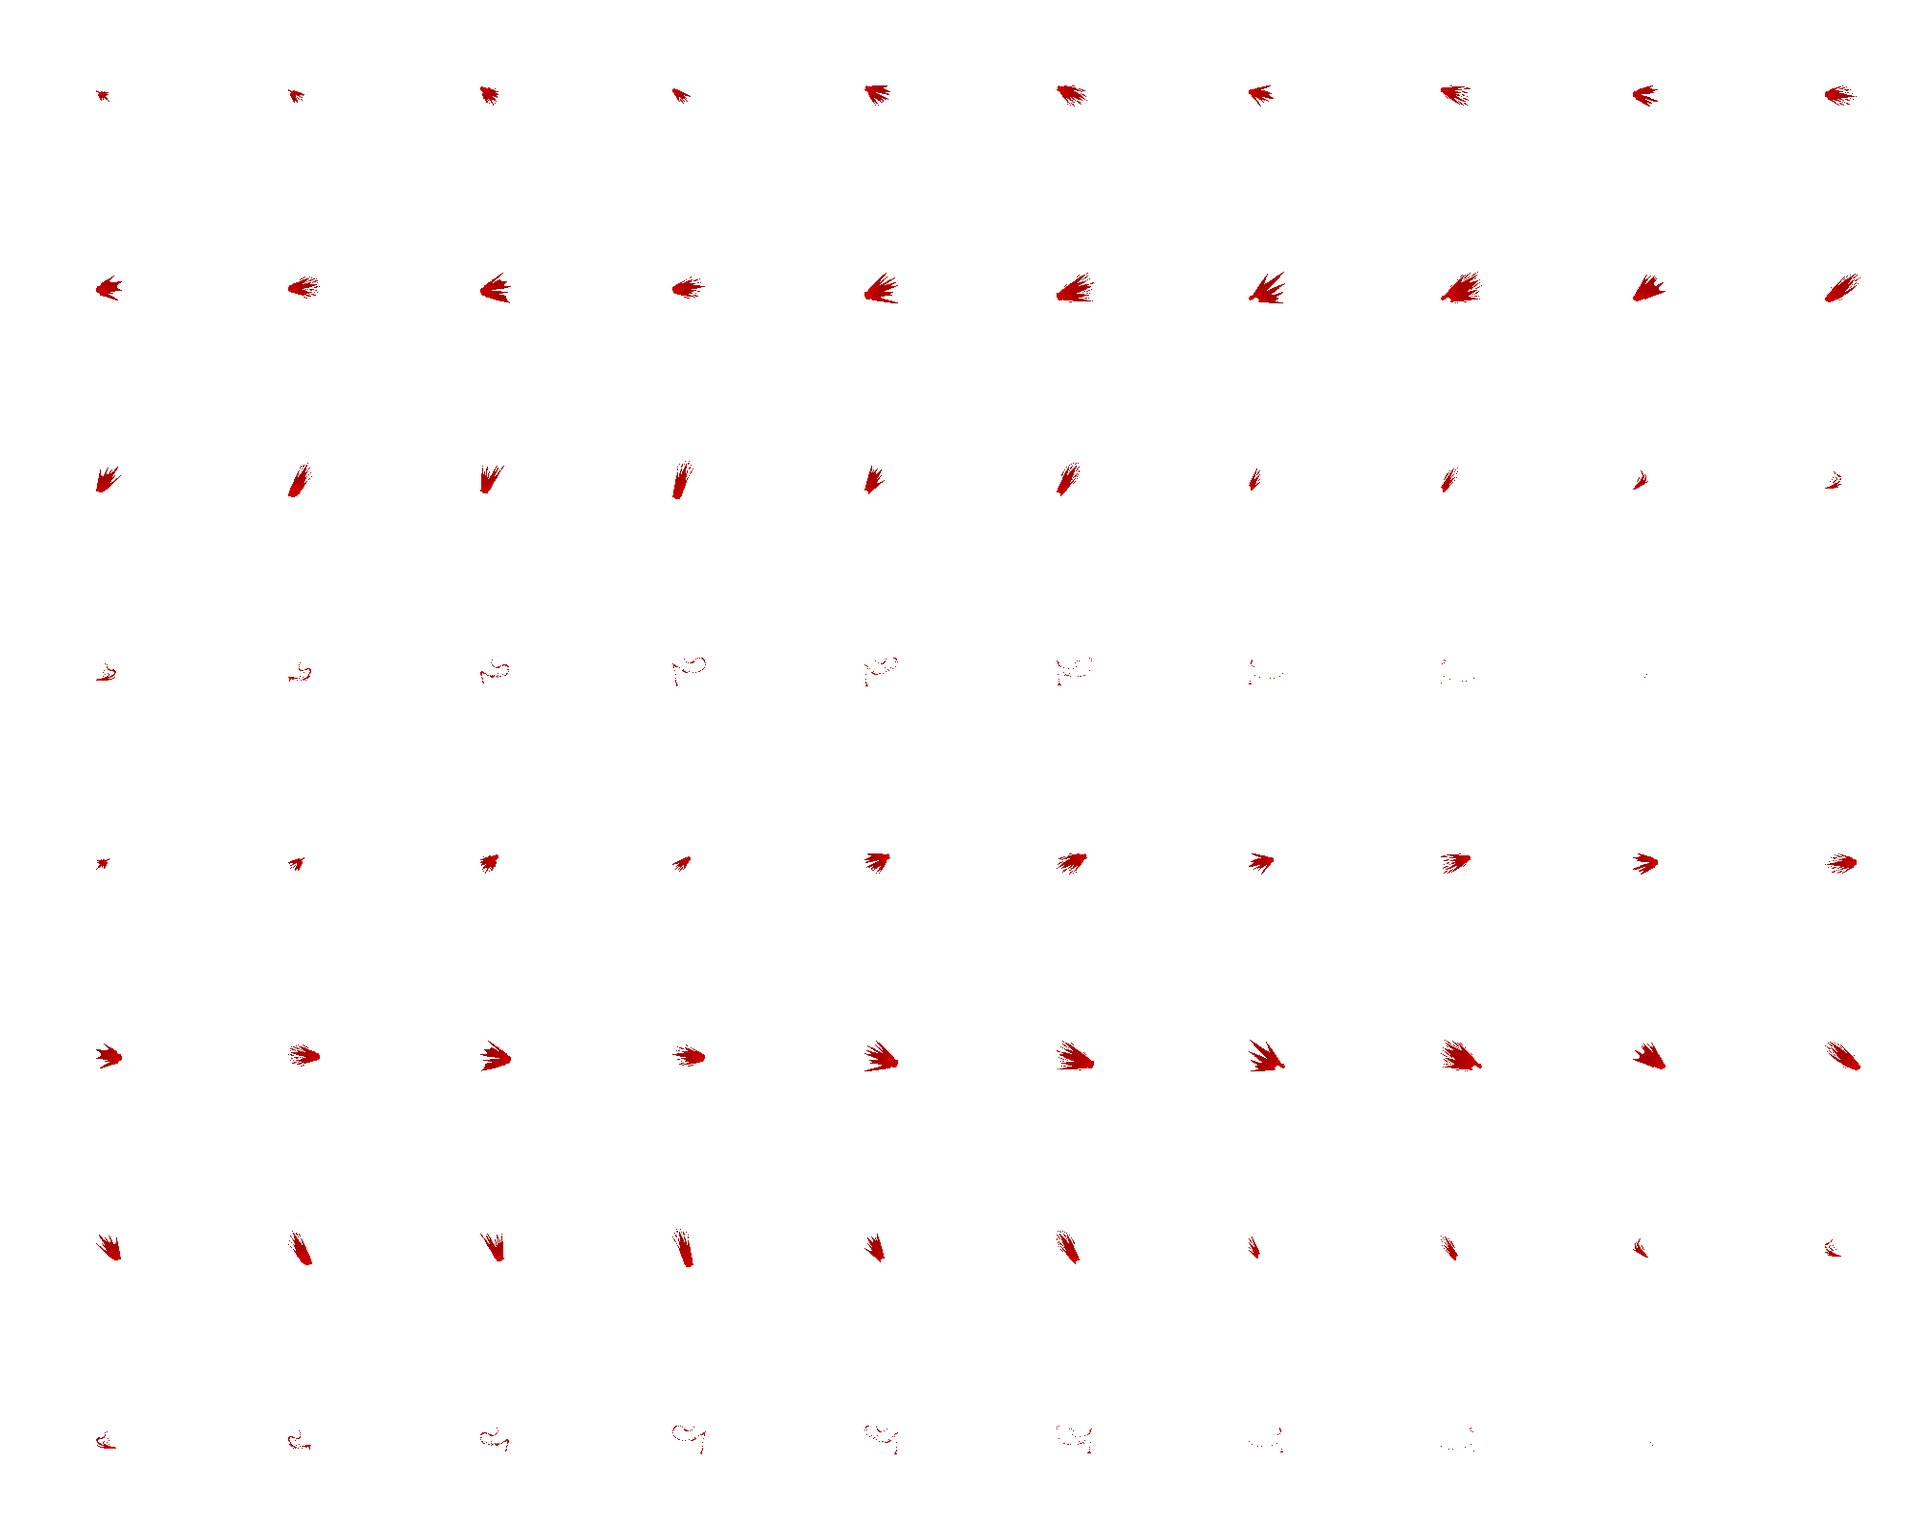
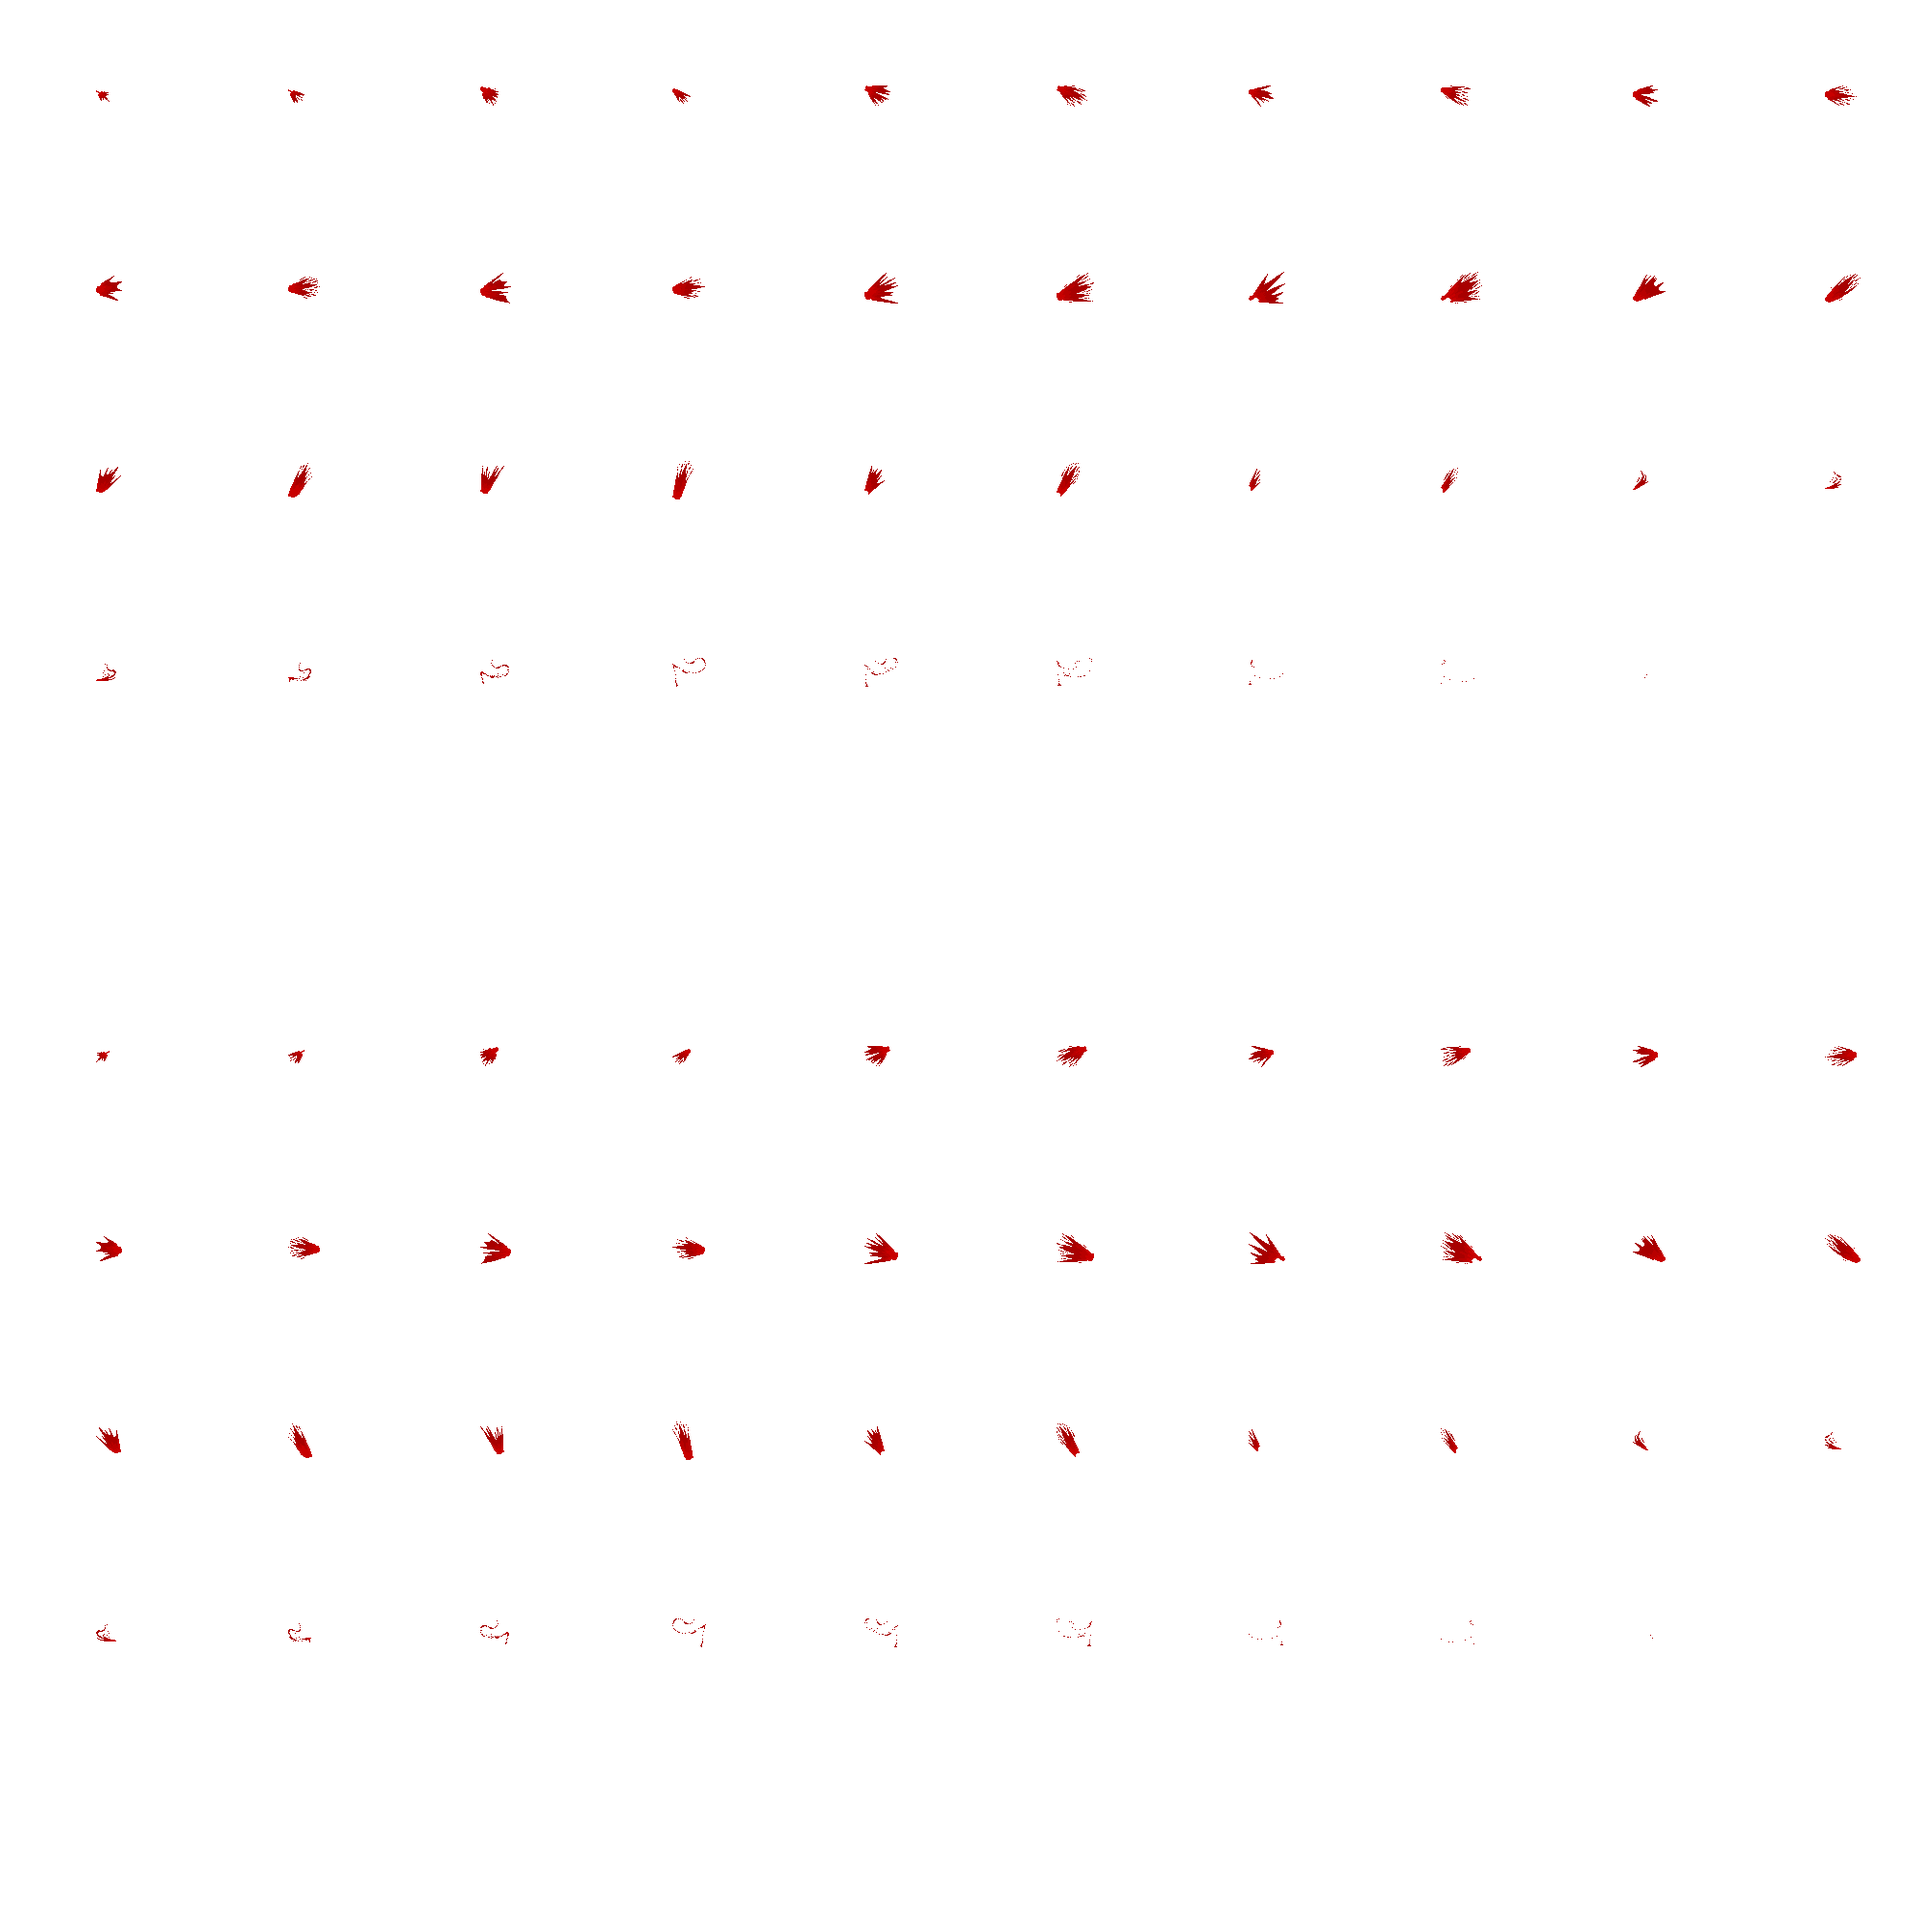
sasad

diff --git a/MetalSlug3/MetalSlug3/ZombieVomitProjectile.cpp b/MetalSlug3/MetalSlug3/ZombieVomitProjectile.cpp
@@ -53,7 +53,27 @@ void AZombieVomitProjectile::BeginPlay()
 	Renderer->CreateAnimation("16-1_Right", "Marco_ZombieVomitProjectile.png", 33, 33, 0.05f);
 	Renderer->CreateAnimation("17-0_Right", "Marco_ZombieVomitProjectile.png", 34, 34, 0.05f);
 	Renderer->CreateAnimation("17-1_Right", "Marco_ZombieVomitProjectile.png", 35, 35, 0.05f);
-	Renderer->CreateAnimation("End_Right", "Marco_ZombieVomitProjectile.png", 36, 51, 0.05f);
+
+	Renderer->CreateAnimation("End_Right0", "Marco_ZombieVomitProjectile.png", 36, 36, 0.03f);
+	Renderer->CreateAnimation("End_Right1", "Marco_ZombieVomitProjectile.png", 37, 37, 0.03f);
+	Renderer->CreateAnimation("End_Right2", "Marco_ZombieVomitProjectile.png", 38, 38, 0.03f);
+	Renderer->CreateAnimation("End_Right3", "Marco_ZombieVomitProjectile.png", 39, 39, 0.03f);
+	Renderer->CreateAnimation("End_Right4", "Marco_ZombieVomitProjectile.png", 40, 40, 0.03f);
+	Renderer->CreateAnimation("End_Right5", "Marco_ZombieVomitProjectile.png", 41, 41, 0.03f);
+	Renderer->CreateAnimation("End_Right6", "Marco_ZombieVomitProjectile.png", 42, 42, 0.03f);
+	Renderer->CreateAnimation("End_Right7", "Marco_ZombieVomitProjectile.png", 43, 43, 0.03f);
+	Renderer->CreateAnimation("End_Right8", "Marco_ZombieVomitProjectile.png", 44, 44, 0.03f);
+	Renderer->CreateAnimation("End_Right9", "Marco_ZombieVomitProjectile.png", 45, 45, 0.03f);
+	Renderer->CreateAnimation("End_Right10", "Marco_ZombieVomitProjectile.png", 46, 46, 0.03f);
+	Renderer->CreateAnimation("End_Right11", "Marco_ZombieVomitProjectile.png", 47, 47, 0.03f);
+	Renderer->CreateAnimation("End_Right12", "Marco_ZombieVomitProjectile.png", 48, 48, 0.03f);
+	Renderer->CreateAnimation("End_Right13", "Marco_ZombieVomitProjectile.png", 49, 49, 0.03f);
+	Renderer->CreateAnimation("End_Right14", "Marco_ZombieVomitProjectile.png", 50, 50, 0.03f);
+	Renderer->CreateAnimation("End_Right15", "Marco_ZombieVomitProjectile.png", 51, 51, 0.03f);
+	Renderer->CreateAnimation("End_Right16", "Marco_ZombieVomitProjectile.png", 52, 52, 0.03f);
+	Renderer->CreateAnimation("End_Right17", "Marco_ZombieVomitProjectile.png", 53, 53, 0.03f);
+	Renderer->CreateAnimation("End_Right18", "Marco_ZombieVomitProjectile.png", 54, 54, 0.03f);
+	Renderer->CreateAnimation("End_Right19", "Marco_ZombieVomitProjectile.png", 55, 55, 0.03f);
 
 	Renderer->CreateAnimation("0-0_Left", "Marco_ZombieVomitProjectile.png", 60, 60, 0.05f);
 	Renderer->CreateAnimation("0-1_Left", "Marco_ZombieVomitProjectile.png", 61, 61, 0.05f);
@@ -91,8 +111,27 @@ void AZombieVomitProjectile::BeginPlay()
 	Renderer->CreateAnimation("16-1_Left", "Marco_ZombieVomitProjectile.png", 93, 93, 0.05f);
 	Renderer->CreateAnimation("17-0_Left", "Marco_ZombieVomitProjectile.png", 94, 94, 0.05f);
 	Renderer->CreateAnimation("17-1_Left", "Marco_ZombieVomitProjectile.png", 95, 95, 0.05f);
-	Renderer->CreateAnimation("End_Left", "Marco_ZombieVomitProjectile.png", 96, 111, 0.05f);
 
+	Renderer->CreateAnimation("End_Left0", "Marco_ZombieVomitProjectile.png", 96, 96, 0.03f);
+	Renderer->CreateAnimation("End_Left1", "Marco_ZombieVomitProjectile.png", 97, 97, 0.03f);
+	Renderer->CreateAnimation("End_Left2", "Marco_ZombieVomitProjectile.png", 98, 98, 0.03f);
+	Renderer->CreateAnimation("End_Left3", "Marco_ZombieVomitProjectile.png", 99, 99, 0.03f);
+	Renderer->CreateAnimation("End_Left4", "Marco_ZombieVomitProjectile.png", 100, 100, 0.03f);
+	Renderer->CreateAnimation("End_Left5", "Marco_ZombieVomitProjectile.png", 101, 101, 0.03f);
+	Renderer->CreateAnimation("End_Left6", "Marco_ZombieVomitProjectile.png", 102, 102, 0.03f);
+	Renderer->CreateAnimation("End_Left7", "Marco_ZombieVomitProjectile.png", 103, 103, 0.03f);
+	Renderer->CreateAnimation("End_Left8", "Marco_ZombieVomitProjectile.png", 104, 104, 0.03f);
+	Renderer->CreateAnimation("End_Left9", "Marco_ZombieVomitProjectile.png", 105, 105, 0.03f);
+	Renderer->CreateAnimation("End_Left10", "Marco_ZombieVomitProjectile.png", 106, 106, 0.03f);
+	Renderer->CreateAnimation("End_Left11", "Marco_ZombieVomitProjectile.png", 107, 107, 0.03f);
+	Renderer->CreateAnimation("End_Left12", "Marco_ZombieVomitProjectile.png", 108, 108, 0.03f);
+	Renderer->CreateAnimation("End_Left13", "Marco_ZombieVomitProjectile.png", 109, 109, 0.03f);
+	Renderer->CreateAnimation("End_Left14", "Marco_ZombieVomitProjectile.png", 110, 110, 0.03f);
+	Renderer->CreateAnimation("End_Left15", "Marco_ZombieVomitProjectile.png", 111, 111, 0.03f);
+	Renderer->CreateAnimation("End_Left16", "Marco_ZombieVomitProjectile.png", 112, 112, 0.03f);
+	Renderer->CreateAnimation("End_Left17", "Marco_ZombieVomitProjectile.png", 113, 113, 0.03f);
+	Renderer->CreateAnimation("End_Left18", "Marco_ZombieVomitProjectile.png", 114, 114, 0.03f);
+	Renderer->CreateAnimation("End_Left19", "Marco_ZombieVomitProjectile.png", 115, 115, 0.03f);
 
 
 	Renderer->SetImage("Marco_ZombieVomitProjectile.png");
@@ -104,17 +143,28 @@ void AZombieVomitProjectile::Tick(float _DeltaTime)
 {
 	AActor::Tick(_DeltaTime);
 
+	if (IsDeath)
+	{
+		Destroy();
+		return;
+	}
+
 	if (RendererEnd)
 	{
 		if (Dir.X > 0)
 		{
-			Renderer->ChangeAnimation("End_Right");
+			std::string AnimName = "End_Right";
+			AnimName += std::to_string(EndFrame);
+			Renderer->ChangeAnimation(AnimName, false, 0, 0.03f);
+			
 		}
 		else
 		{
-			Renderer->ChangeAnimation("End_Left");
+			std::string AnimName = "End_Left";
+			AnimName += std::to_string(EndFrame);
+			Renderer->ChangeAnimation(AnimName, false, 0, 0.03f);
 		}
-		RendererEnd = false;
+		return;
 	}
 
 	if (Dir.Y < -0.97f)

diff --git a/MetalSlug3/MetalSlug3/VomitLauncher.cpp b/MetalSlug3/MetalSlug3/VomitLauncher.cpp
@@ -11,6 +11,10 @@ AVomitLauncher::AVomitLauncher()
 
 AVomitLauncher::~AVomitLauncher()
 {
+	for (AZombieVomitProjectile* Projectile : VomitProjectiles)
+	{
+		Projectile->IsDeath = true;
+	}
 }
 
 void AVomitLauncher::BeginPlay()
@@ -20,7 +24,7 @@ void AVomitLauncher::BeginPlay()
 
 	if (UContentsHelper::Player->DirState == EActorDir::Right)
 	{
-		Renderer->CreateAnimation("Launch_Right", "Marco_VomitLaunchEffect.png", 0, 38, 0.08f, false);
+		Renderer->CreateAnimation("Launch_Right", "Marco_VomitLaunchEffect.png", 0, 43, 0.03f, false);
 		InitialShootVector = { 12.f,10.f };
 		LastShootVector = { 12.f,-37.f };
 		Renderer->ChangeAnimation("Launch_Right");
@@ -28,7 +32,7 @@ void AVomitLauncher::BeginPlay()
 	}
 	else if (UContentsHelper::Player->DirState == EActorDir::Left)
 	{
-		Renderer->CreateAnimation("Launch_Left", "Marco_VomitLaunchEffect.png", 40, 78, 0.08f, false);
+		Renderer->CreateAnimation("Launch_Left", "Marco_VomitLaunchEffect.png", 50, 93, 0.03f, false);
 		InitialShootVector = { -12.f,10.f };
 		LastShootVector = { -12.f,-37.f };
 		Renderer->ChangeAnimation("Launch_Left");
@@ -37,12 +41,40 @@ void AVomitLauncher::BeginPlay()
 	InitialShootVector.Normalize2D();
 	LastShootVector.Normalize2D();
 	ShootVector = InitialShootVector;
-
 }
 
 void AVomitLauncher::Tick(float _DeltaTime)
 {
-	ShootVector.RotationZToDeg(-10.f * _DeltaTime);
+	int CurFrame = Renderer->GetCurAnimationFrame();
+	EActorDir PlayerDir = UContentsHelper::Player->DirState;
+	if (CurFrame < 24)
+	{
+		if (PlayerDir == EActorDir::Right)
+		{
+			ShootVector.RotationZToDeg(-120.f * _DeltaTime);
+		}
+		else
+		{
+			ShootVector.RotationZToDeg(120.f * _DeltaTime);
+		}
+	}
+	else
+	{
+		IsEnd = true;
+		if (PlayerDir == EActorDir::Right)
+		{
+			ShootVector.RotationZToDeg(25.f * _DeltaTime);
+		}
+		else
+		{
+			ShootVector.RotationZToDeg(-25.f * _DeltaTime);
+		}
+
+		if (Renderer->IsCurAnimationEnd())
+		{
+			Destroy();
+		}
+	}
 
 	AccTime += _DeltaTime;
 	if (AccTime > CoolTime)
@@ -51,6 +83,7 @@ void AVomitLauncher::Tick(float _DeltaTime)
 		for (AZombieVomitProjectile* Projectile : VomitProjectiles)
 		{
 			Projectile->Destroy();
+			Projectile = nullptr;
 		}
 		VomitProjectiles.clear();
 
@@ -67,10 +100,17 @@ void AVomitLauncher::LaunchLogic()
 	{
 		AZombieVomitProjectile* VomitProjectile = GetWorld()->SpawnActor<AZombieVomitProjectile>();
 		VomitProjectiles.push_back(VomitProjectile);
+		
+		int CurFrame = Renderer->GetCurAnimationFrame();
+		if (CurFrame > 23)
+		{
+			VomitProjectile->RendererEnd = true;
+			VomitProjectile->SetEndFrame(CurFrame - 24);
+		}
 
 		FVector ProjectilePosition = FVector::Zero;
-		ProjectilePosition.X = InitialVelocity.X * t;
-		ProjectilePosition.Y = InitialVelocity.Y * t + 0.5f * Gravity * pow(t, 2);
+		ProjectilePosition.X = InitialVelocity.X/2.f * (t+1);
+		ProjectilePosition.Y = InitialVelocity.Y/2.f * (t+1) + 0.5f * Gravity * pow((t+1), 2);
 
 		VomitProjectile->SetActorLocation(GetActorLocation() + ProjectilePosition);
 		VomitProjectile->SetNumber(t);
@@ -108,8 +148,3 @@ void AVomitLauncher::LaunchLogic()
 		}
 	}
 }
-
-void AVomitLauncher::DamageLogic()
-{
-}
-

diff --git a/MetalSlug3/MetalSlug3/Marco.cpp b/MetalSlug3/MetalSlug3/Marco.cpp
@@ -11,6 +11,7 @@
 #include "ZombieVomitProjectile.h"
 #include "CameraManager.h"
 #include "Enemy.h"
+#include "VomitLauncher.h"
 
 
 Marco::Marco()
@@ -3756,7 +3757,22 @@ void Marco::Zombie_AllVomit(float _DeltaTime)
 	Renderer[static_cast<int>(BodyRenderer::ZombieArm)]->ActiveOff();
 	int CurFrame = Renderer[static_cast<int>(BodyRenderer::AllBody)]->GetCurAnimationFrame();
 	int LaunchFrame = 21;
-	int LaunchEndFrame = 38;
+
+	if (Vomit_PrevFrame != CurFrame && CurFrame == LaunchFrame)
+	{
+		AVomitLauncher* VomitLauncher = GetWorld()->SpawnActor<AVomitLauncher>();
+		FVector Offset = { 0,-100 };
+		VomitLauncher->SetActorLocation(GetActorLocation() + Offset);
+		Vomit_PrevFrame = CurFrame;
+	}
+	
+	if (Renderer[static_cast<int>(BodyRenderer::AllBody)]->IsCurAnimationEnd())
+	{
+		Vomit_PrevFrame = -1;
+		ManipulateOn();
+		Renderer[static_cast<int>(BodyRenderer::ZombieArm)]->ActiveOn();
+		AllStateChange(AllBodyState::Zombie_Idle);
+	}
 }
 
 void Marco::Zombie_AllDeath(float _DeltaTime)

diff --git a/MetalSlug3/MetalSlug3/PlayLevel.cpp b/MetalSlug3/MetalSlug3/PlayLevel.cpp
@@ -67,7 +67,7 @@ void PlayLevel::BeginPlay()
 	UEngineResourcesManager::GetInst().CuttingImage("BloodEffect.png", 10, 6);
 	UEngineResourcesManager::GetInst().CuttingImage("Marco_ZombieVomitProjectile.png", 10, 12);
 
-	UEngineResourcesManager::GetInst().CuttingImage("Marco_VomitLaunchEffect.png", 10, 8);
+	UEngineResourcesManager::GetInst().CuttingImage("Marco_VomitLaunchEffect.png", 10, 10);
 
 	UEngineResourcesManager::GetInst().CuttingImage("Bomb.png", 10, 8);
 

diff --git a/MetalSlug3/MetalSlug3/ZombieVomitProjectile.h b/MetalSlug3/MetalSlug3/ZombieVomitProjectile.h
@@ -32,8 +32,14 @@ public:
 	{
 		Number = _Number;
 	}
+
+	void SetEndFrame(int _Frame)
+	{
+		EndFrame = _Frame;
+	}
 	bool End = false;
 	bool RendererEnd = false;
+	bool IsDeath = false;
 
 protected:
 	void BeginPlay() override;
@@ -41,6 +47,7 @@ protected:
 
 	FVector Dir = FVector::Zero;
 	int Number = 0;
+	int EndFrame = 0;
 	UImageRenderer* Renderer = nullptr;
 	UCollision* Collider = nullptr;
 

diff --git a/MetalSlug3/MetalSlug3/VomitLauncher.h b/MetalSlug3/MetalSlug3/VomitLauncher.h
@@ -29,15 +29,16 @@ protected:
 	FVector InitialPosition = FVector::Zero;
 	FVector InitialVelocity = FVector::Zero;
 
-	float ShootPower = 100.0f;
-	float Gravity = 9.8f;
+	float ShootPower = 200.0f;
+	float Gravity = 9.0f;
 
 	float AccTime = 0.0f;
 	float CoolTime = 0.05f;
 
 	void LaunchLogic();
-	void DamageLogic();
 
-	int Damage = 1;
+	bool IsEnd = false;
+
+	int Damage = 5;
 };
 
